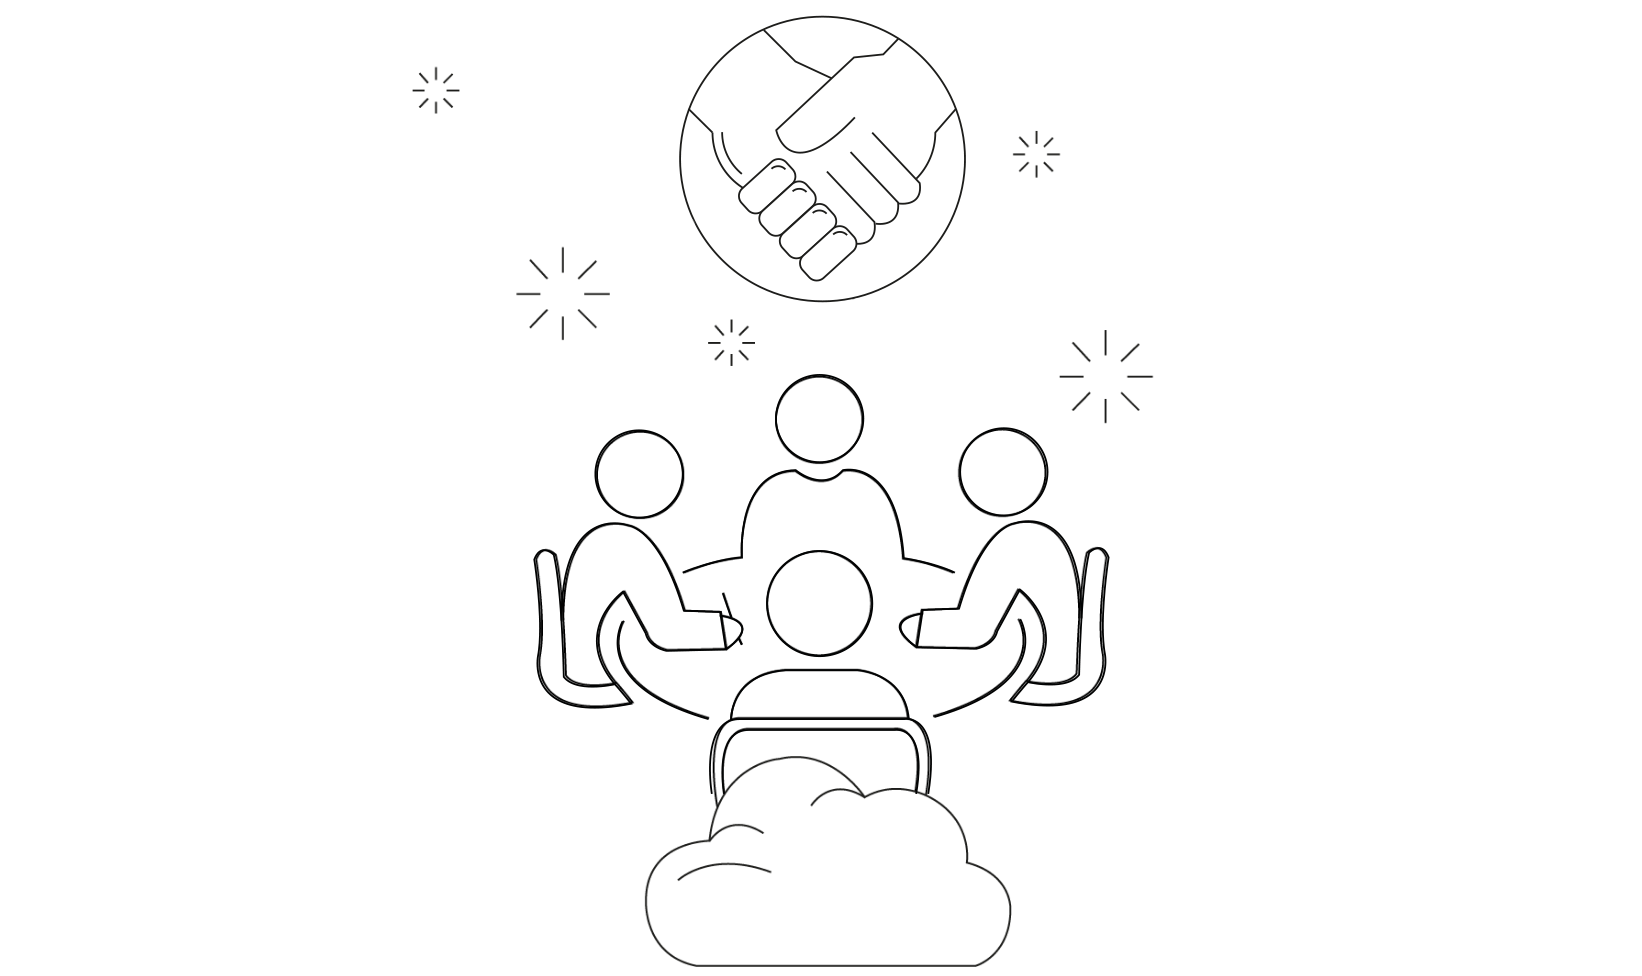
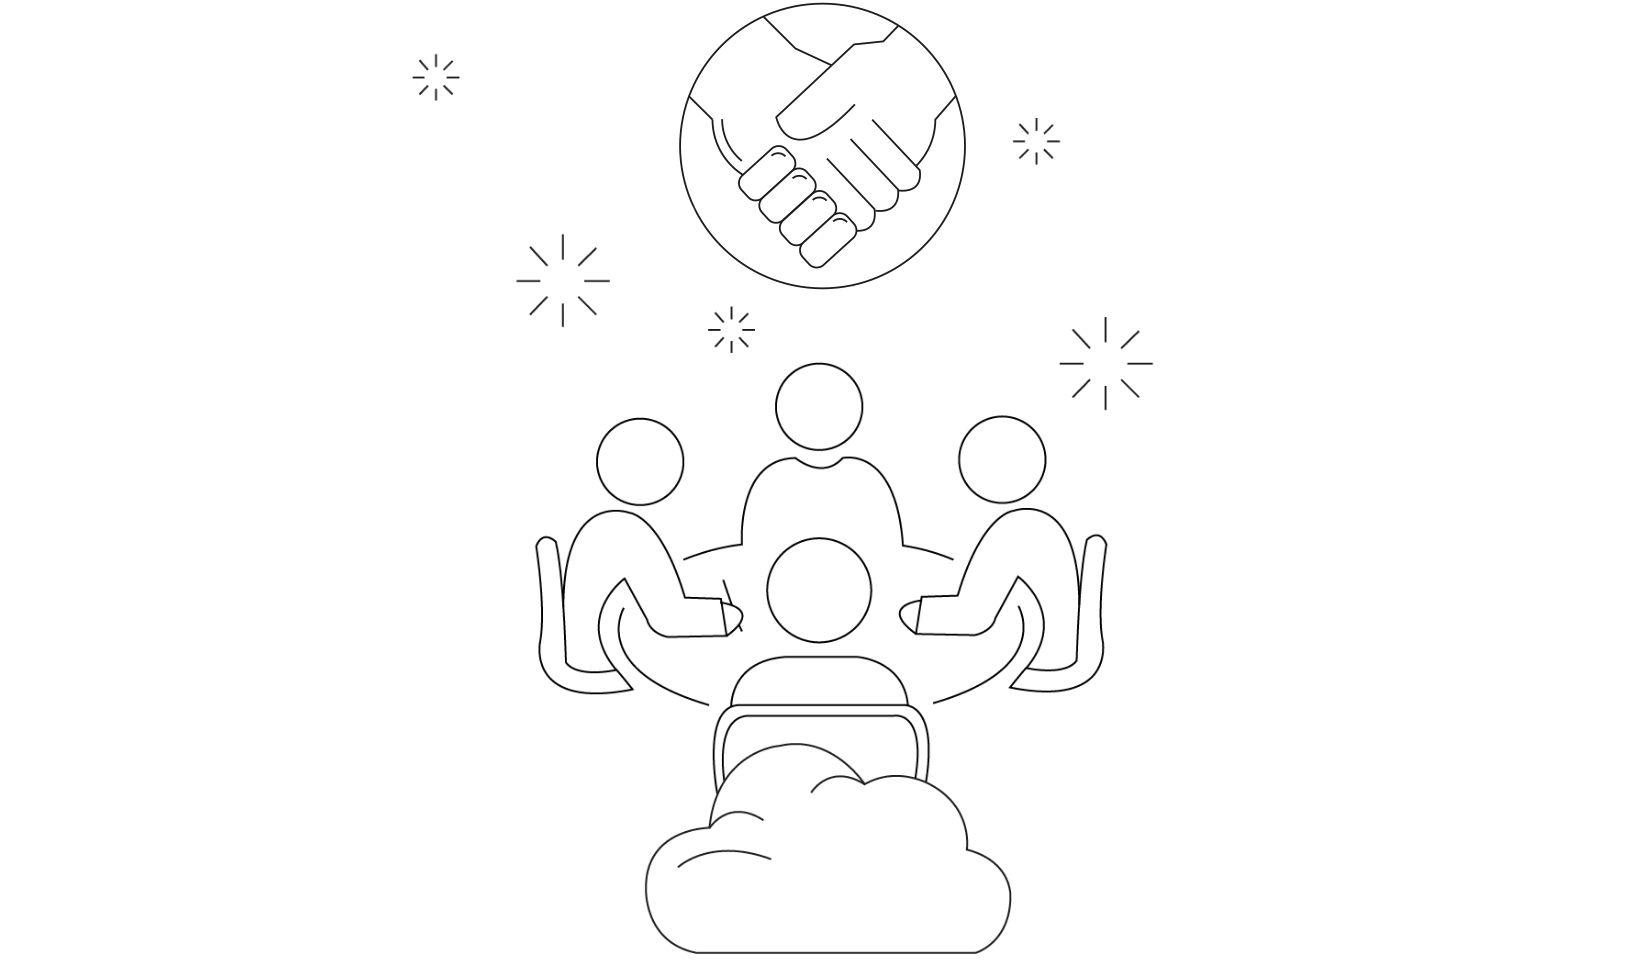
bugfix

diff --git a/source/css/components/screen-1.css b/source/css/components/screen-1.css
@@ -51,10 +51,11 @@
 
 @media (min-width:1000px) {
   .first-screen {
-    padding-top: 180px;
+    padding-top: 30px;
+    justify-content: flex-end;
     overflow: hidden;
 
-    min-height: calc(100vh - 133px);
+    height: calc(100vh - 98px);
 
     & h1 {
       font-size: 50px;
@@ -81,8 +82,22 @@
 
     &__img {
       background-image: url(../images/first-screen-img.svg);
+      background-position: center;
       width: 672px;
       height: 299px;
     }
+  }
+}
+
+@media (min-width:1000px) and (max-height:800px) {
+  .first-screen {
+    &__description {
+      margin-bottom: 40px;
+    }
+
+    &__img {
+      margin-bottom: 30px;
+    }
+
   }
 }

diff --git a/source/index.html b/source/index.html
@@ -155,7 +155,9 @@
 
 			<div class="screen-5__block-left">
 				<div class="screen-5__title">LA SILICOM ACADEMY</div>
-				<div class="screen-5__address"><b>Nous trouver -</b><br>Silicom Academy Blancherie 61 - CP 847 CH - 1951 Sion
+				<div class="screen-5__address">
+					<b>Nous trouver -</b><br>
+					<a href="https://goo.gl/maps/H6XAiDMNfeH26ejv7">Silicom Academy Blancherie 61 - CP 847 CH - 1951 Sion</a>
 				</div>
 				<div class="screen-5__phone"><b>Nous appeler -</b><br><a href="tel:+41 58 255 38 38">+41 58 255 38 38</a></div>
 				<div class="screen-5__title">POUR NOUS CONTACTER</div>

diff --git a/source/html/header.html b/source/html/header.html
@@ -28,7 +28,7 @@
 						<li><a href="#5">NOS RÉFÉRENCES</a></li>
 					</ul>
 				</nav>
-				<ul class="socials">
+				<!--	<ul class="socials">
 					<li><a href="" class="socials__icon  socials__icon--fb" aria-label="social icon facebook" target="_blank"></a>
 					</li>
 					<li><a href="" class="socials__icon  socials__icon--inst" aria-label="social icon instagram"
@@ -37,6 +37,6 @@
 					</li>
 					<li><a href="" class="socials__icon  socials__icon--tw" aria-label="social icon twitter" target="_blank"></a>
 					</li>
-				</ul>
+				</ul> -->
 			</div>
 		</header>

diff --git a/source/css/components/screen-5.css b/source/css/components/screen-5.css
@@ -46,7 +46,8 @@
     margin-bottom: 27px;
 
     & a {
-      text-decoration: none;
+			text-decoration: none;
+			color: #000;
     }
 
     & b {
@@ -102,7 +103,6 @@
     &__img-2 {
       transform: rotate(-65deg);
       left: 102%;
-      text-outline: 0 0 #000;
       top: 49%;
       background-image: url(../images/contacts.bg@2x.png);
     }
@@ -143,8 +143,7 @@
       width: 60%;
       transform: rotate(-65deg);
       left: 102%;
-      text-outline: 0 0 #000;
-      : 49%;
+      top: 49%;
       background-image: url(../images/contacts.bg-2@2x.png);
     }
   }

diff --git a/source/js/script.js b/source/js/script.js
@@ -12,9 +12,10 @@ jQuery(document).ready(function($) {
 	};
 
 	let scrollSite = href => {
+		let height = $('.header').height();
 		$('html').animate(
 			{
-				scrollTop: $(href).offset().top - 138, // прокручиваем страницу к требуемому элементу
+				scrollTop: $(href).offset().top - height, // прокручиваем страницу к требуемому элементу
 			},
 			500 // скорость прокрутки
 		);

diff --git a/source/css/components/header.css b/source/css/components/header.css
@@ -222,6 +222,7 @@
 
     &__logo {
       max-width: 280px;
+      max-width: 196px;
       margin-right: auto;
       width: 100%;
     }
@@ -245,6 +246,8 @@
       padding-right: 14px;
       padding-top: 65px;
       padding-bottom: 55px;
+      padding-top: 45px;
+      padding-bottom: 35px;
 
       &::after {
         display: none;

diff --git a/source/css/components/left-navigation.css b/source/css/components/left-navigation.css
@@ -140,7 +140,10 @@
     text-decoration: none;
     max-width: 260px;
     margin-bottom: 27px;
-
+		& a {
+			text-decoration: none;
+			color: #000;
+		}
     & b {
       font-weight: bold;
     }

diff --git a/source/css/components/screen-4.css b/source/css/components/screen-4.css
@@ -18,6 +18,11 @@
     & b {
       font-size: 17px;
       font-weight: bold;
+
+      & a {
+        color: #000;
+        text-decoration: none;
+      }
     }
 
     &::after {
